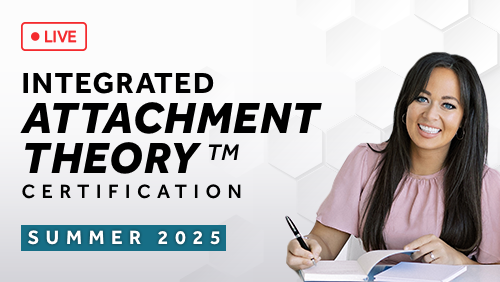
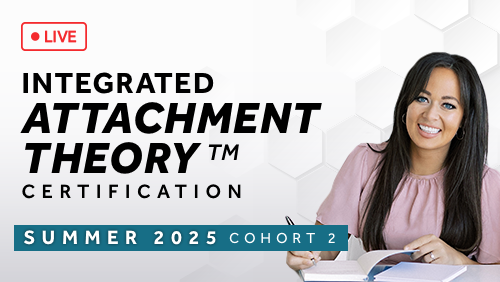
IP-1407 changed iat webinar pricing and dates

Changed region(s): [[0.03, 0.7943, 0.72, 0.9078]]

diff --git a/utils/constants.ts b/utils/constants.ts
@@ -179,15 +179,15 @@ const checkoutRoutes: Record<TCheckoutEnv, TCheckoutRoutes> = {
     checkoutIATSummer20256MonthPlan: `${checkoutUrl}/enroll/3382132?price_id=4291467&coupon=iatbundle6molivesummer225`,
     checkoutIATSummer202512MonthPlan: `${checkoutUrl}/enroll/3382132?price_id=4291468&coupon=iatbundle12molivesummer225`,
     // IAT Recorded With Webinar Discount
-    checkoutIATRecordedWebinarUpfront: `${checkoutUrl}/enroll/2463967?price_id=3951355&coupon=iatwebinarsummer25ondemand`,
+    checkoutIATRecordedWebinarUpfront: `${checkoutUrl}/enroll/2463967?price_id=3951355&coupon=iatwebinarsummer225ondemand`,
     checkoutIATRecordedWebinar3MonthPlan: `${checkoutUrl}/enroll/2463967?price_id=3951356&coupon=iatwebinarsummer253mnthondemand`,
     checkoutIATRecordedWebinar6MonthPlan: `${checkoutUrl}/enroll/2463967?price_id=3951358&coupon=iatwebinarsummer256mnthondemand`,
     checkoutIATRecordedWebinar12MonthPlan: `${checkoutUrl}/enroll/2463967?price_id=3951360&coupon=iatwebinarsummer2512mnthondemand`,
-    // IAT Summer 2025 With Webinar Discount
-    checkoutIATWebinarUpfront: `${checkoutUrl}/enroll/3311061?price_id=4211457&coupon=iatwebinarsummer25live`,
-    checkoutIATWebinar3MonthPlan: `${checkoutUrl}/enroll/3311061?price_id=4211458&coupon=iatwebinarsummer253mnthlive`,
-    checkoutIATWebinar6MonthPlan: `${checkoutUrl}/enroll/3311061?price_id=4211461&coupon=iatwebinarsummer256mnthlive`,
-    checkoutIATWebinar12MonthPlan: `${checkoutUrl}/enroll/3311061?price_id=4211462&coupon=iatwebinarsummer2512mnthlive`,
+    // IAT Summer 2 2025 With Webinar Discount
+    checkoutIATWebinarUpfront: `${checkoutUrl}/enroll/3382132?price_id=4291469&coupon=iatwebinarsummer225live`,
+    checkoutIATWebinar3MonthPlan: `${checkoutUrl}/enroll/3382132?price_id=4291471&coupon=iatwebinarsummer2253mnthlive`,
+    checkoutIATWebinar6MonthPlan: `${checkoutUrl}/enroll/3382132?price_id=4291473&coupon=iatwebinarsummer2256mnthlive`,
+    checkoutIATWebinar12MonthPlan: `${checkoutUrl}/enroll/3382132?price_id=4291475&coupon=iatwebinarsummer22512mnthlive`,
     // Lifetime All-Access Pass
     checkoutLifetimeUpfront: `${checkoutUrl}/enroll/559833?price_id=1053866&coupon=lifetimesale`,
     checkoutLifetime6MonthPlan: `${checkoutUrl}/enroll/559833?price_id=1053856&coupon=lifetimesale6mo`,
@@ -230,15 +230,15 @@ const checkoutRoutes: Record<TCheckoutEnv, TCheckoutRoutes> = {
     checkoutIATSummer20256MonthPlan: `${checkoutUrl}/enroll/3400721?price_id=4312073&coupon=iatbundle6molivesummer25`,
     checkoutIATSummer202512MonthPlan: `${checkoutUrl}/enroll/3400721?price_id=4312074&coupon=iatbundle12molivesummer25`,
     // IAT Recorded With Webinar Discount
-    checkoutIATRecordedWebinarUpfront: `${checkoutUrl}/enroll/2751990?price_id=3577378&coupon=iatwebinarsummer25ondemand`,
-    checkoutIATRecordedWebinar3MonthPlan: `${checkoutUrl}/enroll/2751990?price_id=3919119&coupon=iatwebinarsummer253mnthondemand`,
-    checkoutIATRecordedWebinar6MonthPlan: `${checkoutUrl}/enroll/2751990?price_id=3919118&coupon=iatwebinarsummer256mnthondemand`,
-    checkoutIATRecordedWebinar12MonthPlan: `${checkoutUrl}/enroll/2751990?price_id=3919117&coupon=iatwebinarsummer2512mnthondemand`,
-    // IAT Summer 2025 With Webinar Discount
-    checkoutIATWebinarUpfront: `${checkoutUrl}/enroll/3311061?price_id=4312068&coupon=iatwebinarsummer25live`,
-    checkoutIATWebinar3MonthPlan: `${checkoutUrl}/enroll/3311061?price_id=4312069&coupon=iatwebinarsummer253mnthlive`,
-    checkoutIATWebinar6MonthPlan: `${checkoutUrl}/enroll/3311061?price_id=4312073&coupon=iatwebinarsummer256mnthlive`,
-    checkoutIATWebinar12MonthPlan: `${checkoutUrl}/enroll/3311061?price_id=4312074&coupon=iatwebinarsummer2512mnthlive`,
+    checkoutIATRecordedWebinarUpfront: `${checkoutUrl}/enroll/2751990?price_id=4344753&coupon=iatwebinarsummer225ondemand`,
+    checkoutIATRecordedWebinar3MonthPlan: `${checkoutUrl}/enroll/2751990?price_id=4344755&coupon=iatwebinarsummer253mnthondemand`,
+    checkoutIATRecordedWebinar6MonthPlan: `${checkoutUrl}/enroll/2751990?price_id=4344758&coupon=iatwebinarsummer256mnthondemand`,
+    checkoutIATRecordedWebinar12MonthPlan: `${checkoutUrl}/enroll/2751990?price_id=4344759&coupon=iatwebinarsummer2512mnthondemand`,
+    // IAT Summer 2 2025 With Webinar Discount
+    checkoutIATWebinarUpfront: `${checkoutUrl}/enroll/3430162?price_id=4344727&coupon=iatwebinarsummer225live`,
+    checkoutIATWebinar3MonthPlan: `${checkoutUrl}/enroll/3430162?price_id=4344731&coupon=iatwebinarsummer2253mnthlive`,
+    checkoutIATWebinar6MonthPlan: `${checkoutUrl}/enroll/3430162?price_id=4344734&coupon=iatwebinarsummer2256mnthlive`,
+    checkoutIATWebinar12MonthPlan: `${checkoutUrl}/enroll/3430162?price_id=4344736&coupon=iatwebinarsummer22512mnthlive`,
     // Lifetime All-Access Pass
     checkoutLifetimeUpfront: `${checkoutUrl}/enroll/1934512?price_id=2663440&coupon=lifetimesale`,
     checkoutLifetime6MonthPlan: `${checkoutUrl}/enroll/1934512?price_id=2963435&coupon=lifetimesale6mo`,

diff --git a/app/(custom-layouts)/(no-header-no-footer)/iat/webinar/recording-offer/page.tsx b/app/(custom-layouts)/(no-header-no-footer)/iat/webinar/recording-offer/page.tsx
@@ -59,7 +59,7 @@ export default function IATMasterclassRecordingPage() {
         <h2 className="mb-4">Are You Ready to Transform Lives & Secure Your Financial Future?</h2>
 
         <p className="mb-16">
-          Sign up for the Live IAT™ Program starting on <strong>Wednesday, May 21st, 2025</strong>,
+          Sign up for the Live IAT™ Program starting on <strong>Thursday, July 24th, 2025</strong>,
           and get your exclusive Masterclass discount!
         </p>
 
@@ -70,7 +70,7 @@ export default function IATMasterclassRecordingPage() {
         <CountdownTimer
           className="mb-8"
           theme="light"
-          date={getOfferEndDate(new Date('2025-05-16T23:59:59-04:00'), 1)}
+          date={getOfferEndDate(new Date('2025-06-27T23:59:59-04:00'), 1)}
         />
       </Section>
 
@@ -140,7 +140,7 @@ export default function IATMasterclassRecordingPage() {
             </>,
             'This revolutionary program is designed to equip you with the practical tools and knowledge from our proprietary healing model and the business solutions to turn your passion for helping people into a fulfilling and financially rewarding career.',
             <>
-              Enrolment for our next cohort starting <strong>Wednesday, May 21st, 2025</strong>, is
+              Enrolment for our next cohort starting <strong>Thursday, July 24th, 2025</strong>, is
               closing soon!
             </>,
             'This is your final chance to be part of a groundbreaking movement that is changing the way people experience personal growth and transformation.',

diff --git a/app/(custom-layouts)/(no-header-no-footer)/iat/webinar/checkout/page.tsx b/app/(custom-layouts)/(no-header-no-footer)/iat/webinar/checkout/page.tsx
@@ -68,7 +68,7 @@ export default function IATWebinarSqueezePage() {
             <span className="text-primary">Transform Lives</span> & Secure Your Financial Future
           </h1>
 
-          <p className="font-bold text-xl mb-8">Join the Live IAT™ Program on May 21st, 2025</p>
+          <p className="font-bold text-xl mb-8">Join the Live IAT™ Program on July 24th, 2025</p>
 
           <p className="font-bold">Time Left to Claim Your Exclusive Masterclass Discount</p>
 
@@ -76,7 +76,7 @@ export default function IATWebinarSqueezePage() {
             className="!justify-start"
             classNameDate="!bg-inherit !shadow-none !text-black !p-0"
             theme="light"
-            date={getOfferEndDate(new Date('2025-05-16T23:59:59-04:00'), 1)}
+            date={getOfferEndDate(new Date('2025-06-27T23:59:59-04:00'), 1)}
           />
 
           <ButtonScroll className="mt-8" label="JOIN NOW & SAVE $300" target="#pricing" />

diff --git a/components/IAT/IATWebinarPricing.tsx b/components/IAT/IATWebinarPricing.tsx
@@ -32,7 +32,7 @@ const OnDemandIATCardDetails: TIATCardDetails = {
   title: 'On Demand',
   originalPrice: [{ price: '$4,000' }, { price: '$1,999', label: '(50% off)' }],
   currentPrice: '$1,799.00',
-  currentPriceLabel: '(Including $300 Masterclass Discount)',
+  currentPriceLabel: '(Including $200 Masterclass Discount)',
   discount: 'TOTAL SAVINGS: $2,201',
   subheader: 'Ignite Your Career & Finances With a Self-Paced Format',
   copy: "The perfect format for self-paced learners or those who can't make the weekly sessions. Get access to the same features as the Live Program IAT™, including pre-recorded video modules, essential client resources, and business materials to build your coaching practice. You can enroll for this Program at any time.",
